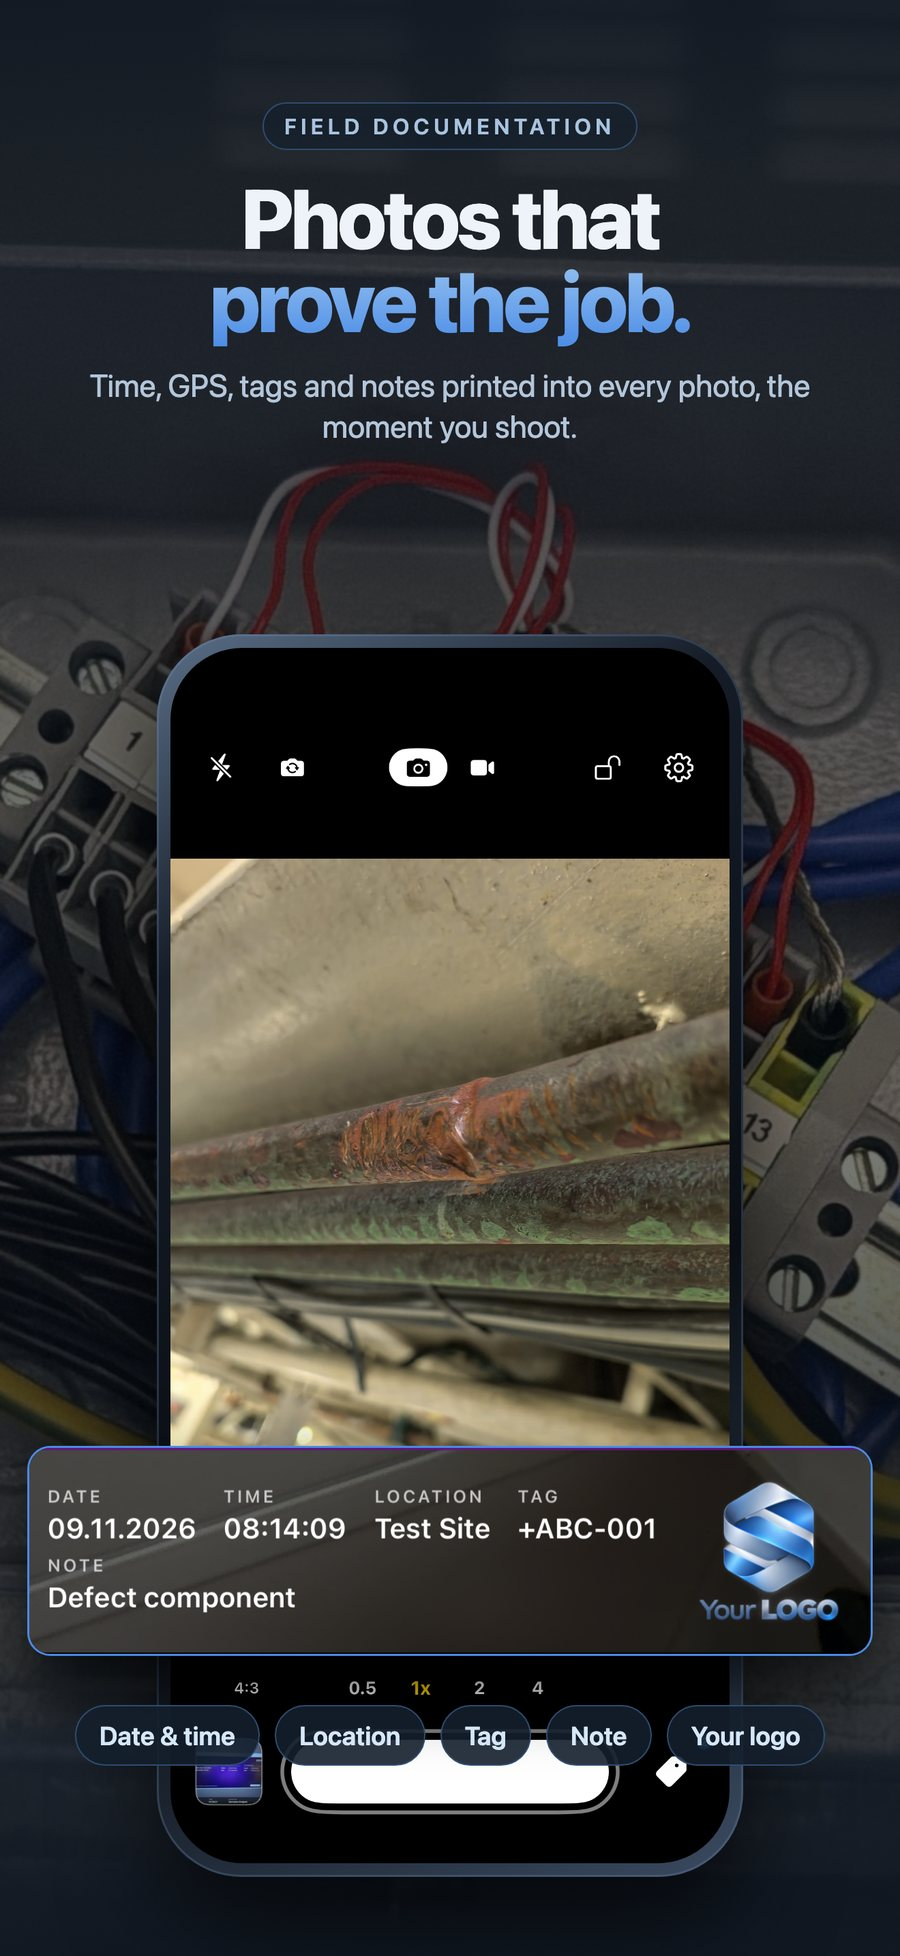
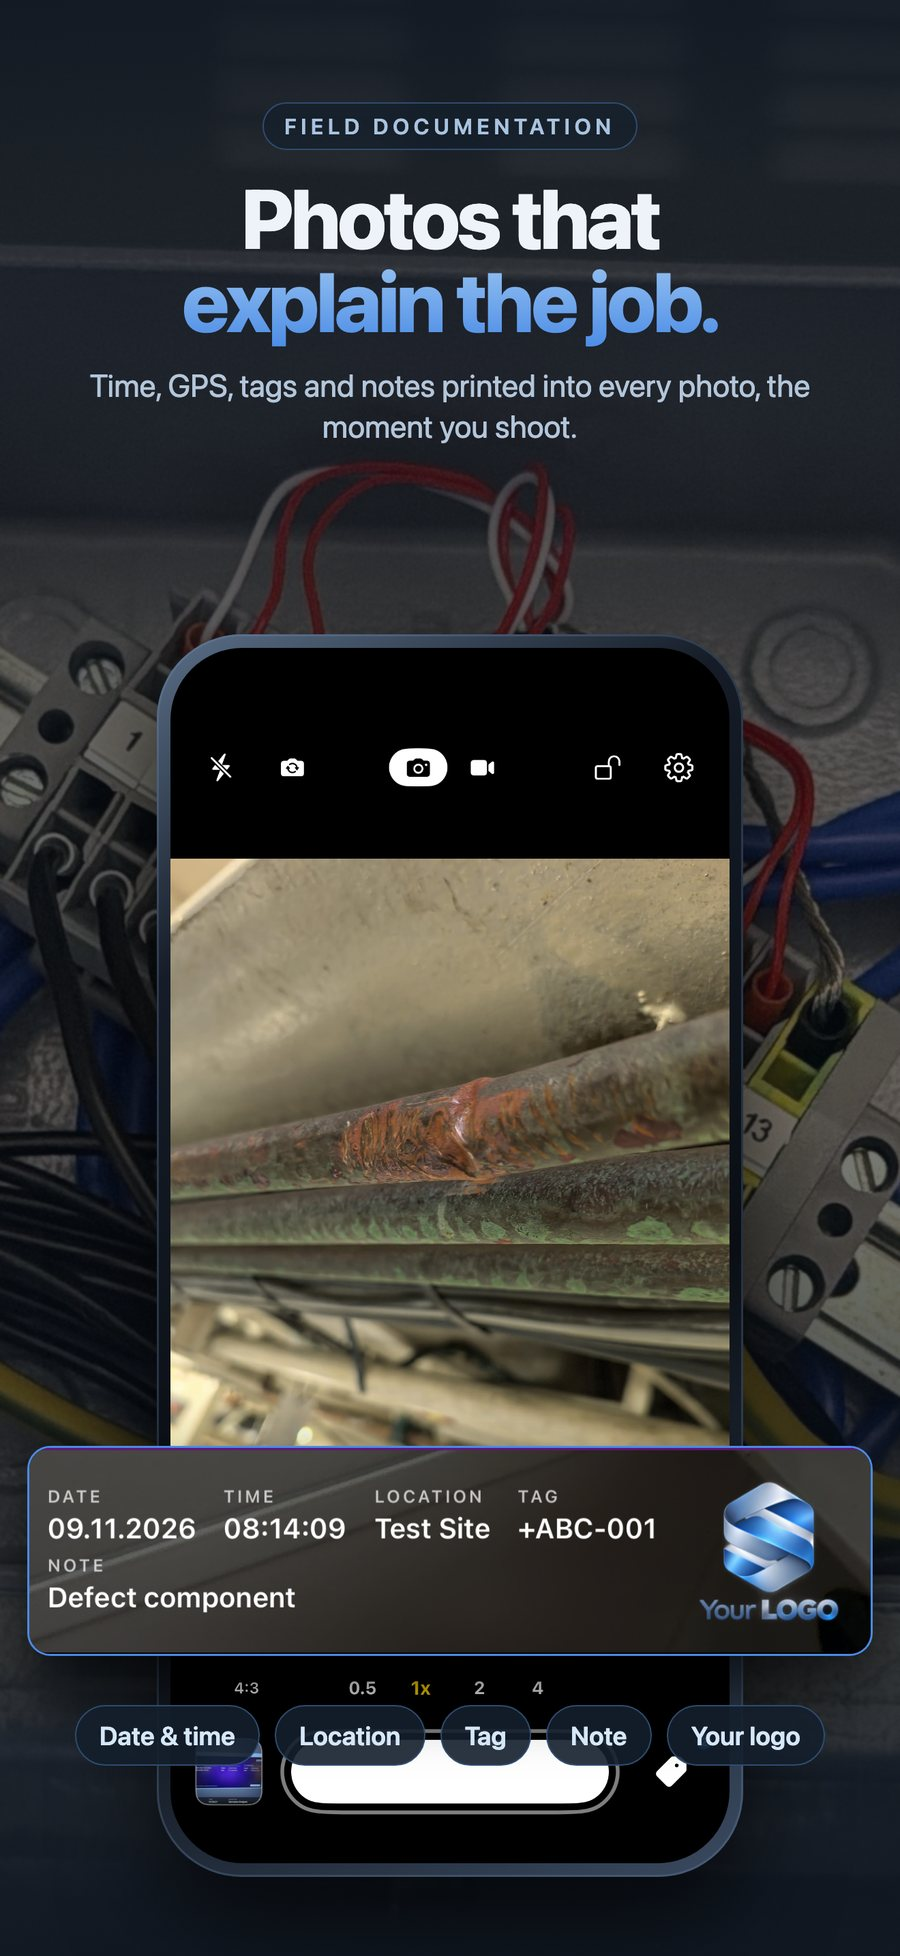
Site: promo images without unverifiable claims

Changed region(s): [[0.1867, 0.1247, 0.8089, 0.1871]]

diff --git a/home.html b/home.html
@@ -36,7 +36,7 @@
 
 <div class="gallery" aria-label="Screenshots">
   <div class="track">
-    <button type="button" class="shot" data-full="shots/p01.jpg" data-alt="Photos that prove the job: time, GPS, tag and note printed into the photo"><img src="shots/p01-thumb.jpg" alt="Photos that prove the job: time, GPS, tag and note printed into the photo" loading="lazy" width="259" height="563"></button>
+    <button type="button" class="shot" data-full="shots/p01.jpg" data-alt="Photos that explain the job: time, GPS, tag and note printed into the photo"><img src="shots/p01-thumb.jpg" alt="Photos that explain the job: time, GPS, tag and note printed into the photo" loading="lazy" width="259" height="563"></button>
     <button type="button" class="shot" data-full="shots/p02.jpg" data-alt="Pay once, no subscription: no in-app purchases, no account, every feature included"><img src="shots/p02-thumb.jpg" alt="Pay once, no subscription: no in-app purchases, no account, every feature included" loading="lazy" width="259" height="563"></button>
     <button type="button" class="shot" data-full="shots/p03.jpg" data-alt="Work photos stay at work: job photos in FieldCam, not in the camera roll"><img src="shots/p03-thumb.jpg" alt="Work photos stay at work: job photos in FieldCam, not in the camera roll" loading="lazy" width="259" height="563"></button>
     <button type="button" class="shot" data-full="shots/p04.jpg" data-alt="One setup, the whole crew: share settings as a QR code"><img src="shots/p04-thumb.jpg" alt="One setup, the whole crew: share settings as a QR code" loading="lazy" width="259" height="563"></button>
@@ -47,7 +47,7 @@
     <button type="button" class="shot" data-full="shots/p09.jpg" data-alt="Tags that fit your work: tagging and storage settings"><img src="shots/p09-thumb.jpg" alt="Tags that fit your work: tagging and storage settings" loading="lazy" width="259" height="563"></button>
     <button type="button" class="shot" data-full="shots/p10.jpg" data-alt="Everything on site: settings and features"><img src="shots/p10-thumb.jpg" alt="Everything on site: settings and features" loading="lazy" width="259" height="563"></button>
     <button type="button" class="shot" data-full="shots/p11.jpg" data-alt="Private by design: no account, no data collected, no servers"><img src="shots/p11-thumb.jpg" alt="Private by design: no account, no data collected, no servers" loading="lazy" width="259" height="563"></button>
-    <button type="button" class="shot" data-full="shots/p01.jpg" data-alt="Photos that prove the job: time, GPS, tag and note printed into the photo" aria-hidden="true" tabindex="-1"><img src="shots/p01-thumb.jpg" alt="Photos that prove the job: time, GPS, tag and note printed into the photo" loading="lazy" width="259" height="563"></button>
+    <button type="button" class="shot" data-full="shots/p01.jpg" data-alt="Photos that explain the job: time, GPS, tag and note printed into the photo" aria-hidden="true" tabindex="-1"><img src="shots/p01-thumb.jpg" alt="Photos that explain the job: time, GPS, tag and note printed into the photo" loading="lazy" width="259" height="563"></button>
     <button type="button" class="shot" data-full="shots/p02.jpg" data-alt="Pay once, no subscription: no in-app purchases, no account, every feature included" aria-hidden="true" tabindex="-1"><img src="shots/p02-thumb.jpg" alt="Pay once, no subscription: no in-app purchases, no account, every feature included" loading="lazy" width="259" height="563"></button>
     <button type="button" class="shot" data-full="shots/p03.jpg" data-alt="Work photos stay at work: job photos in FieldCam, not in the camera roll" aria-hidden="true" tabindex="-1"><img src="shots/p03-thumb.jpg" alt="Work photos stay at work: job photos in FieldCam, not in the camera roll" loading="lazy" width="259" height="563"></button>
     <button type="button" class="shot" data-full="shots/p04.jpg" data-alt="One setup, the whole crew: share settings as a QR code" aria-hidden="true" tabindex="-1"><img src="shots/p04-thumb.jpg" alt="One setup, the whole crew: share settings as a QR code" loading="lazy" width="259" height="563"></button>
